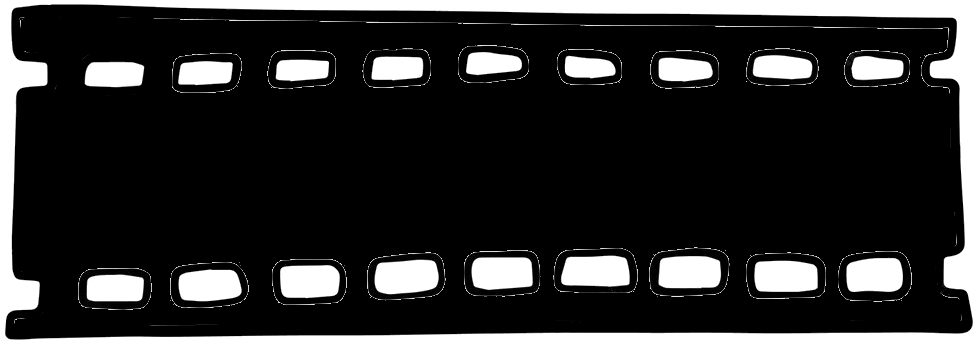
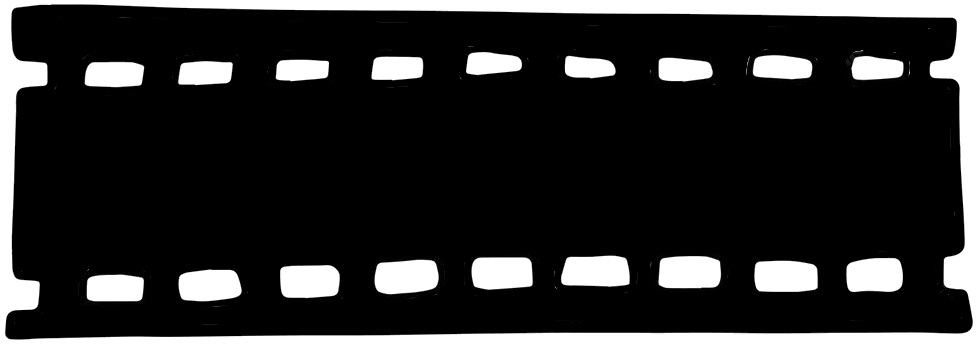
syling consistency

diff --git a/components/CameraControls.js b/components/CameraControls.js
@@ -169,28 +169,13 @@ export default function CameraControls({ cameraRef, setImage, image }) {
       }}
     >
       <ImageBackground
-        source={require("../filmreel.jpg")}
-        // source={require("../filmcartoonblack.png")}
-        style={[styles.filmButtonsContainer]}
-      >
-        <Film
-          email={email}
-          docRef={docRef}
-          setFilm={setFilm}
-          film={
-            film
-              ? film
-              : { name: "", size: 0, photosTaken: 0, isFilmFull: false }
-          }
-        />
-      </ImageBackground>
-      <ImageBackground
         // source={require("../black-background.jpg")}
         style={{
-          // borderStyle: "solid",
-          // borderColor: "black",
-          // borderWidth: 2,
-          // backgroundColor: ",
+          borderStyle: "solid",
+          borderColor: "black",
+          borderWidth: 2,
+          backgroundColor: "white",
+          borderTopColor: "white",
           flex: 1,
           padding: 15,
           flexDirection: "row",
@@ -204,15 +189,31 @@ export default function CameraControls({ cameraRef, setImage, image }) {
           onPress={!image ? takePicture : resetImage}
         >
           {isLoading ? (
-            <ActivityIndicator size="small" color="black" />
+            <ActivityIndicator size="small" color="white" />
           ) : !image ? (
-            <MaterialIcons name="photo-camera" size={45} color="black" />
+            <MaterialIcons name="photo-camera" size={45} color="white" />
           ) : (
             <>
-              <Entypo name="back" size={24} color="black" />
+              <Entypo name="back" size={24} color="white" />
             </>
           )}
         </TouchableOpacity>
+      </ImageBackground>
+      <ImageBackground
+        source={require("../filmcartoon.png")}
+        // source={require("../filmcartoonblack.png")}
+        style={[styles.filmButtonsContainer]}
+      >
+        <Film
+          email={email}
+          docRef={docRef}
+          setFilm={setFilm}
+          film={
+            film
+              ? film
+              : { name: "", size: 0, photosTaken: 0, isFilmFull: false }
+          }
+        />
       </ImageBackground>
     </View>
   );
@@ -234,10 +235,9 @@ const styles = StyleSheet.create({
     justifyContent: "center",
     borderWidth: 5,
     borderRadius: 100,
-    width: 120,
-    height: 120,
-    marginTop: 30,
-    backgroundColor: "lightcyan",
+    width: 80,
+    height: 80,
+    backgroundColor: "black",
     // backgroundColor: "#e0bbe4",
     opacity: 1,
   },

diff --git a/screens/CameraScreen.js b/screens/CameraScreen.js
@@ -15,8 +15,8 @@ export default function CameraScreen() {
       // source={require("../potentialBG/7.jpg")}
       // resizeMode="repeat"
       style={{
-        padding: 30,
-        backgroundColor: "white",
+        padding: 35,
+        backgroundColor: "#FBE4FF",
         flex: 1,
       }}
     >
@@ -29,11 +29,13 @@ export default function CameraScreen() {
         <ImageBackground
           // source={require("../orange-background2.jpg")}
           style={{
-            padding: 15,
+            padding: 20,
+            paddingBottom: 0,
             backgroundColor: "white",
             borderStyle: "solid",
             borderColor: "black",
             borderWidth: 2,
+            borderBottomColor: "white",
           }}
         >
           {!image ? (

diff --git a/components/Film.js b/components/Film.js
@@ -31,7 +31,7 @@ export default function Film(props) {
       });
   };
   return (
-    <View style={{ alignItems: "center", padding: 10 }}>
+    <View style={{ alignItems: "center", padding: 10, flexDirection: "row" }}>
       {!props.film.isFilmFull ? (
         <MaterialCommunityIcons name="film" size={60} color="black" />
       ) : (

diff --git a/screens/Profile.js b/screens/Profile.js
@@ -216,7 +216,7 @@ const styles = StyleSheet.create({
   avatarPhoto: {
     height: "80%",
     width: "100%",
-    borderWidth: 18,
+    borderWidth: 16,
     borderColor: "white",
   },
   inputContainer: {
